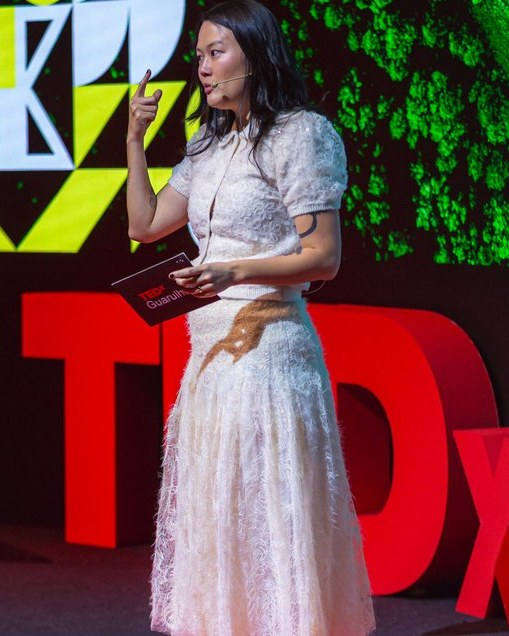
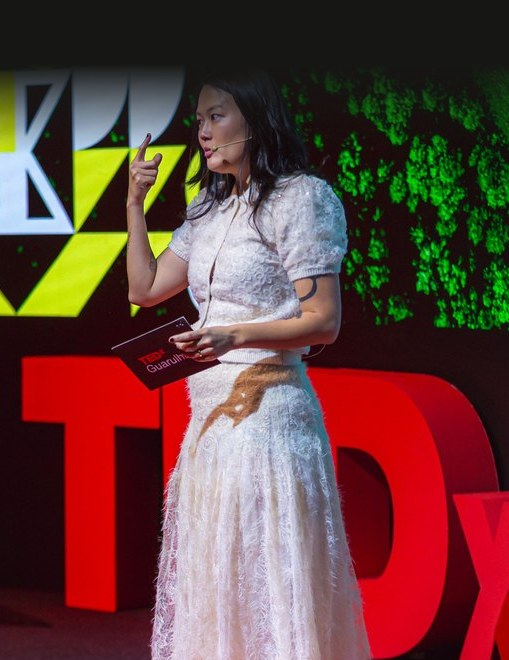
fix(table-friday-evelyn): respiro acima da cabeça na foto do topo (#21)
A foto do TEDx não tem espaço acima da cabeça. Ganha uma faixa escura no
topo, com o palco escurecendo aos poucos, para a Evelyn descer na moldura.

diff --git a/public/Ofertas/table-friday-evelyn.html b/public/Ofertas/table-friday-evelyn.html
@@ -117,7 +117,7 @@
     .facts b { display: block; font-family: 'Cormorant Garamond', serif; font-size: 1.7rem; font-weight: 500; color: var(--cream); line-height: 1.1; }
     .facts small { font-size: .62rem; letter-spacing: .14em; text-transform: uppercase; color: var(--sand); }
     .hero__foto {
-      width: min(320px, 78vw); aspect-ratio: 509 / 636; margin: 44px auto 0; border-radius: 12px 12px 0 0;
+      width: min(320px, 78vw); aspect-ratio: 509 / 660; margin: 44px auto 0; border-radius: 12px 12px 0 0;
       overflow: hidden; position: relative; z-index: 1;
       border: 1px solid rgba(216,204,186,.28); border-bottom: 0;
     }
@@ -312,7 +312,7 @@
   </div>
   <a class="btn" href="#investimento">Ver as condições</a>
   <span class="sub-cta">Também com opção de 3 meses</span>
-  <div class="hero__foto"><img src="/img/evelyn-tedx.jpg" alt="Evelyn Liu palestrando no palco do TEDx" width="509" height="636" fetchpriority="high"></div>
+  <div class="hero__foto"><img src="/img/evelyn-tedx.jpg" alt="Evelyn Liu palestrando no palco do TEDx" width="509" height="660" fetchpriority="high"></div>
 </section>
 
 <!-- CARTA -->
